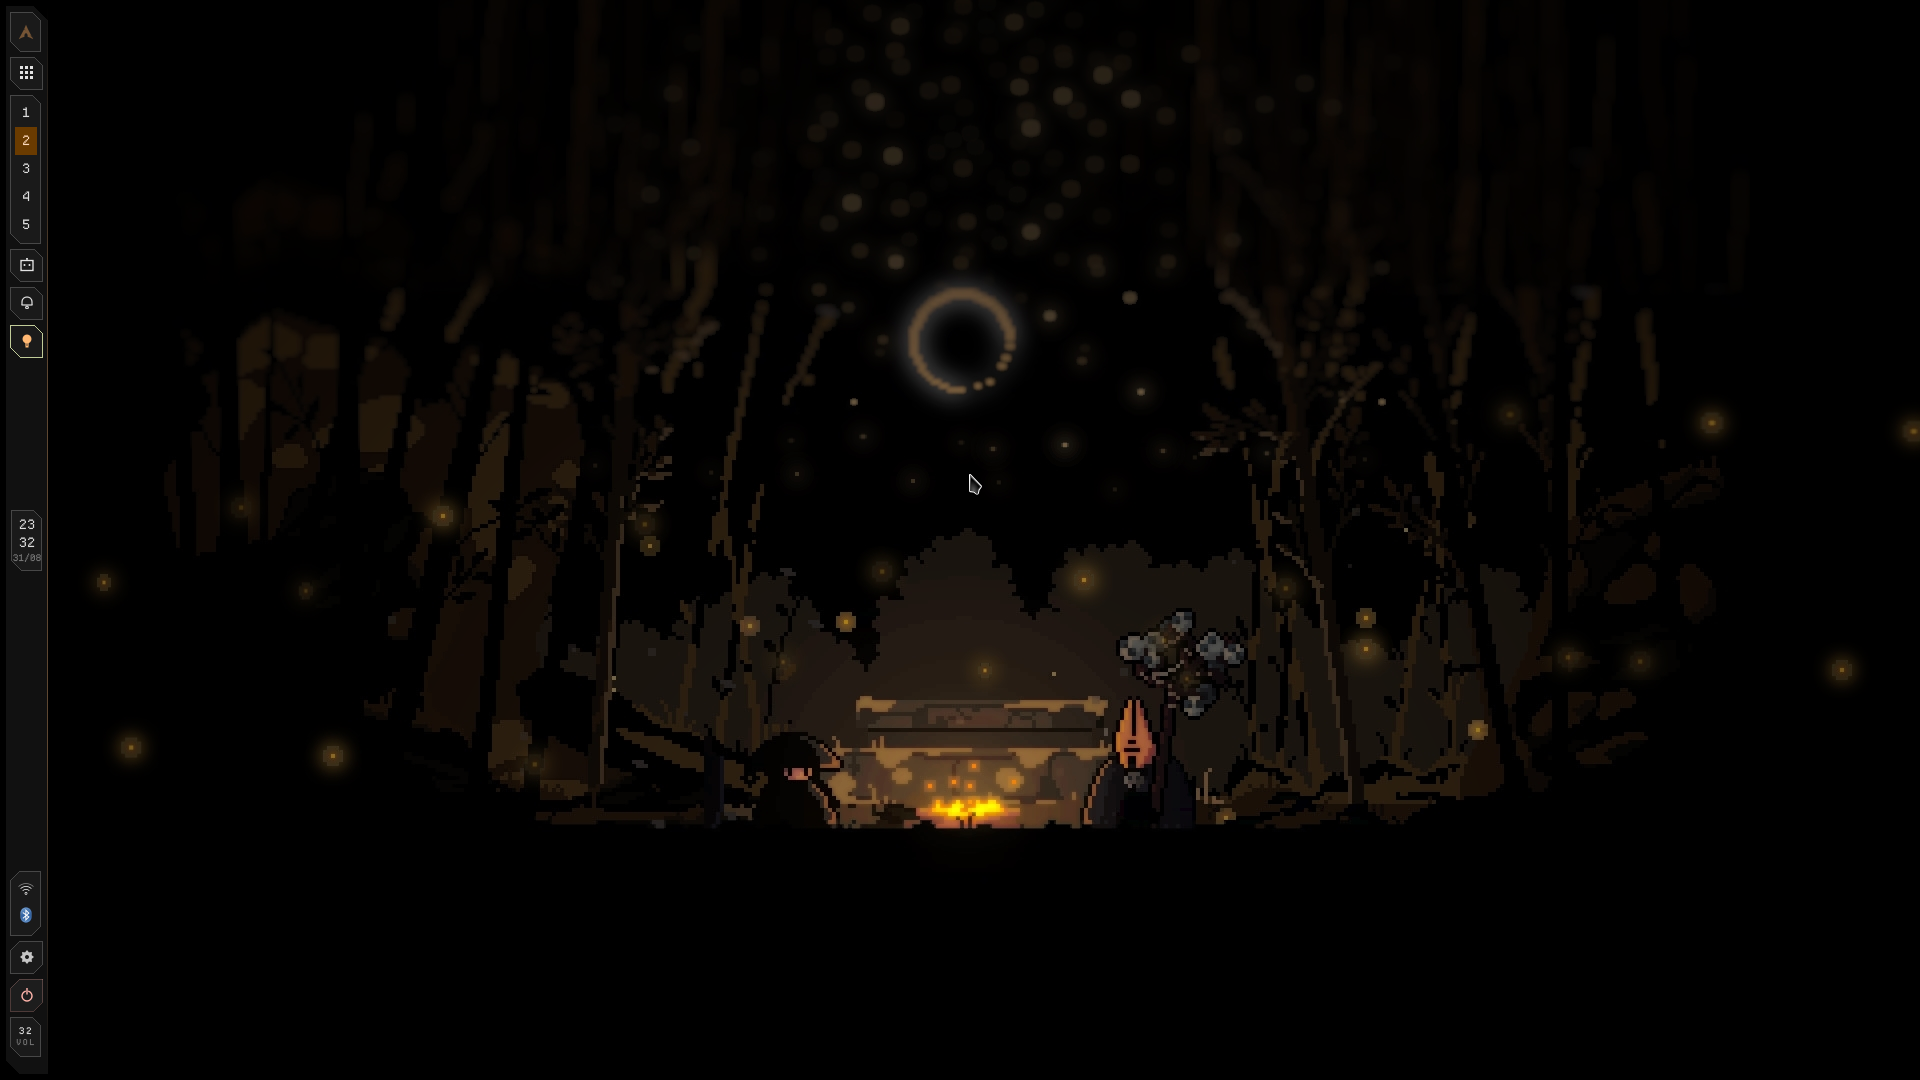
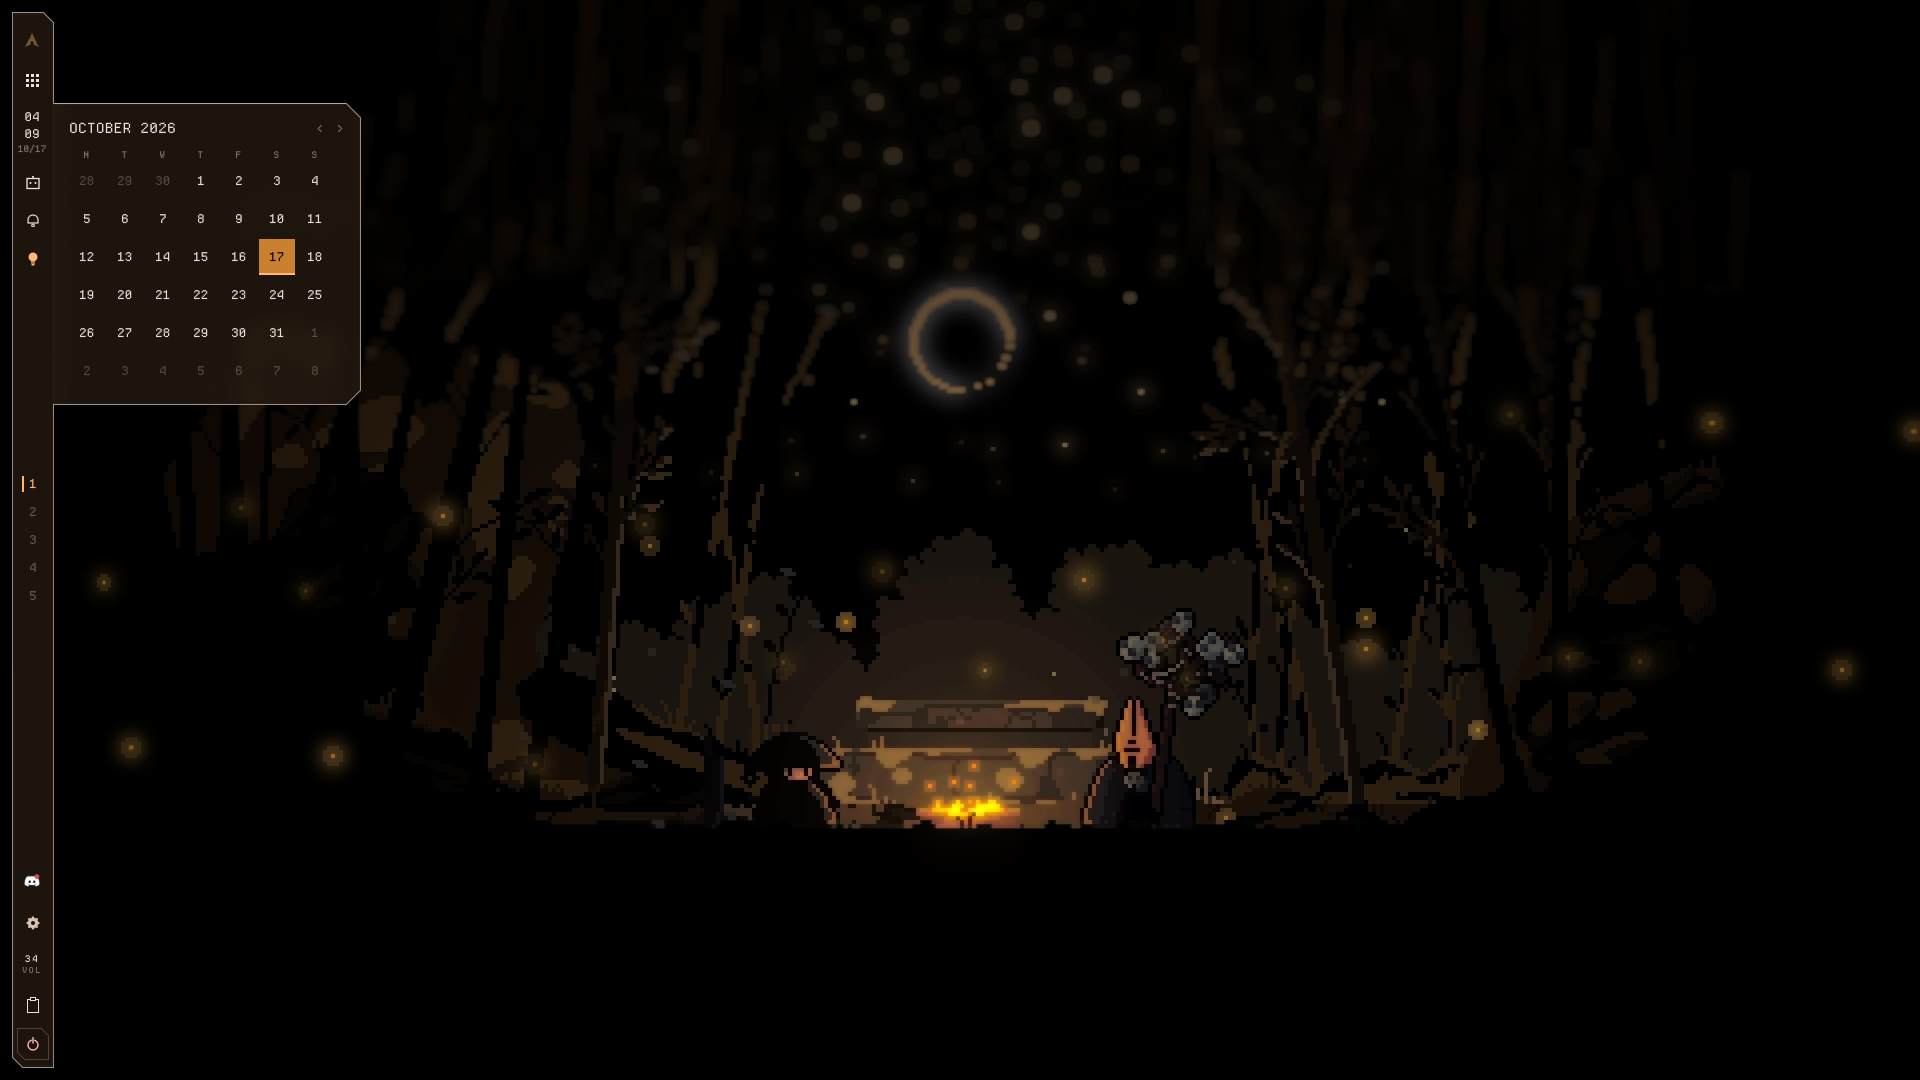
refresh the readme screenshot and drop the quickshell fork note

Changed region(s): [[0.0, 0.0, 0.1875, 1.0]]

diff --git a/README.md b/README.md
@@ -2,7 +2,7 @@
 
 # crux
 
-<img src=".github/screenshot.png" alt="crux running on a vertical bar" width="800">
+<img src=".github/screenshot.png" alt="crux with a floating vertical bar and the calendar drawer open" width="800">
 
 <h4>My own Hyprland shell, written from scratch instead of forking one.</h4>
 
@@ -42,7 +42,7 @@
 ## Requirements
 
 - [Hyprland](https://hyprland.org) with a **Lua config** (`hyprland.lua`). crux talks to Hyprland in Lua dispatch syntax, so a classic `hyprland.conf` setup can't switch workspaces from the bar
-- [Quickshell](https://quickshell.org), the upstream release, not the `noctalia-qs` fork
+- [Quickshell](https://quickshell.org)
 - `matugen`, `brightnessctl`, `wlsunset`, `cliphist`, `wl-clipboard`, `playerctl`, `networkmanager`, `bluez`, `python`, `git`
 
 Optional:
